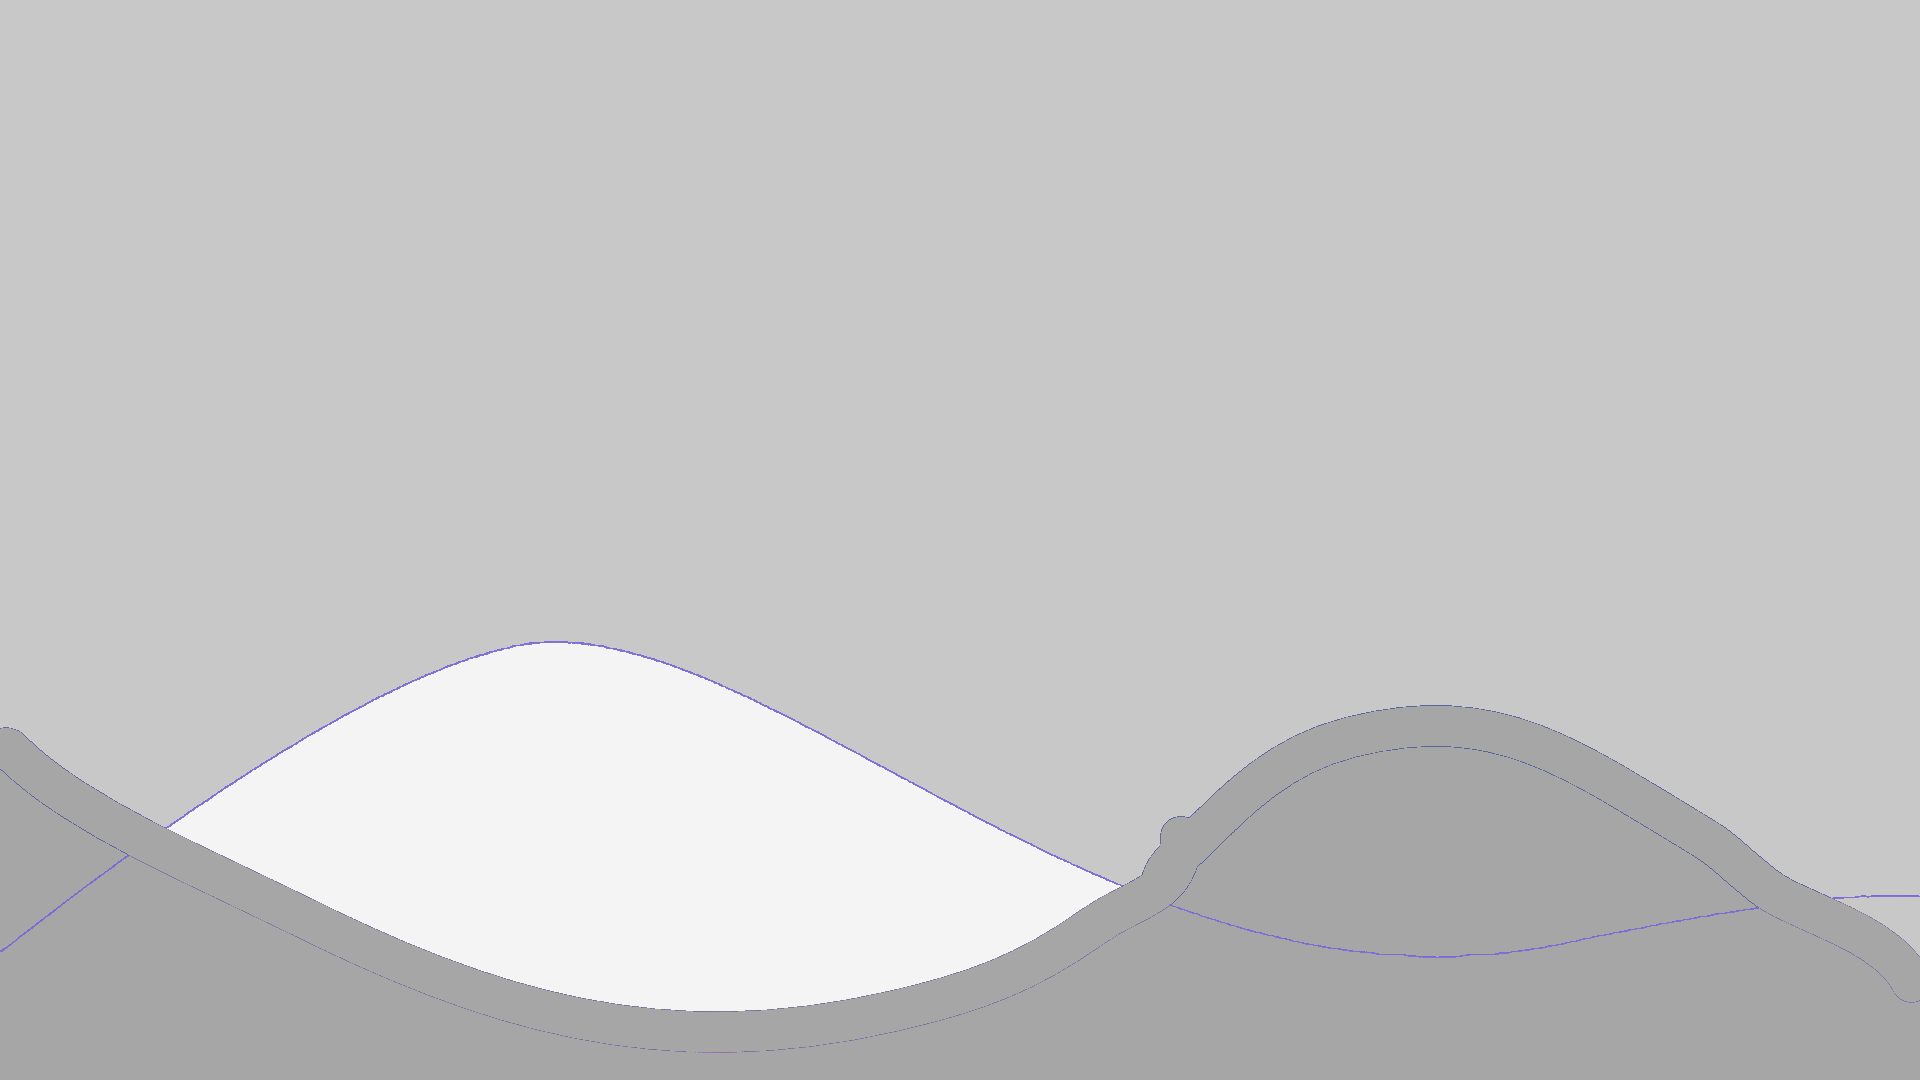
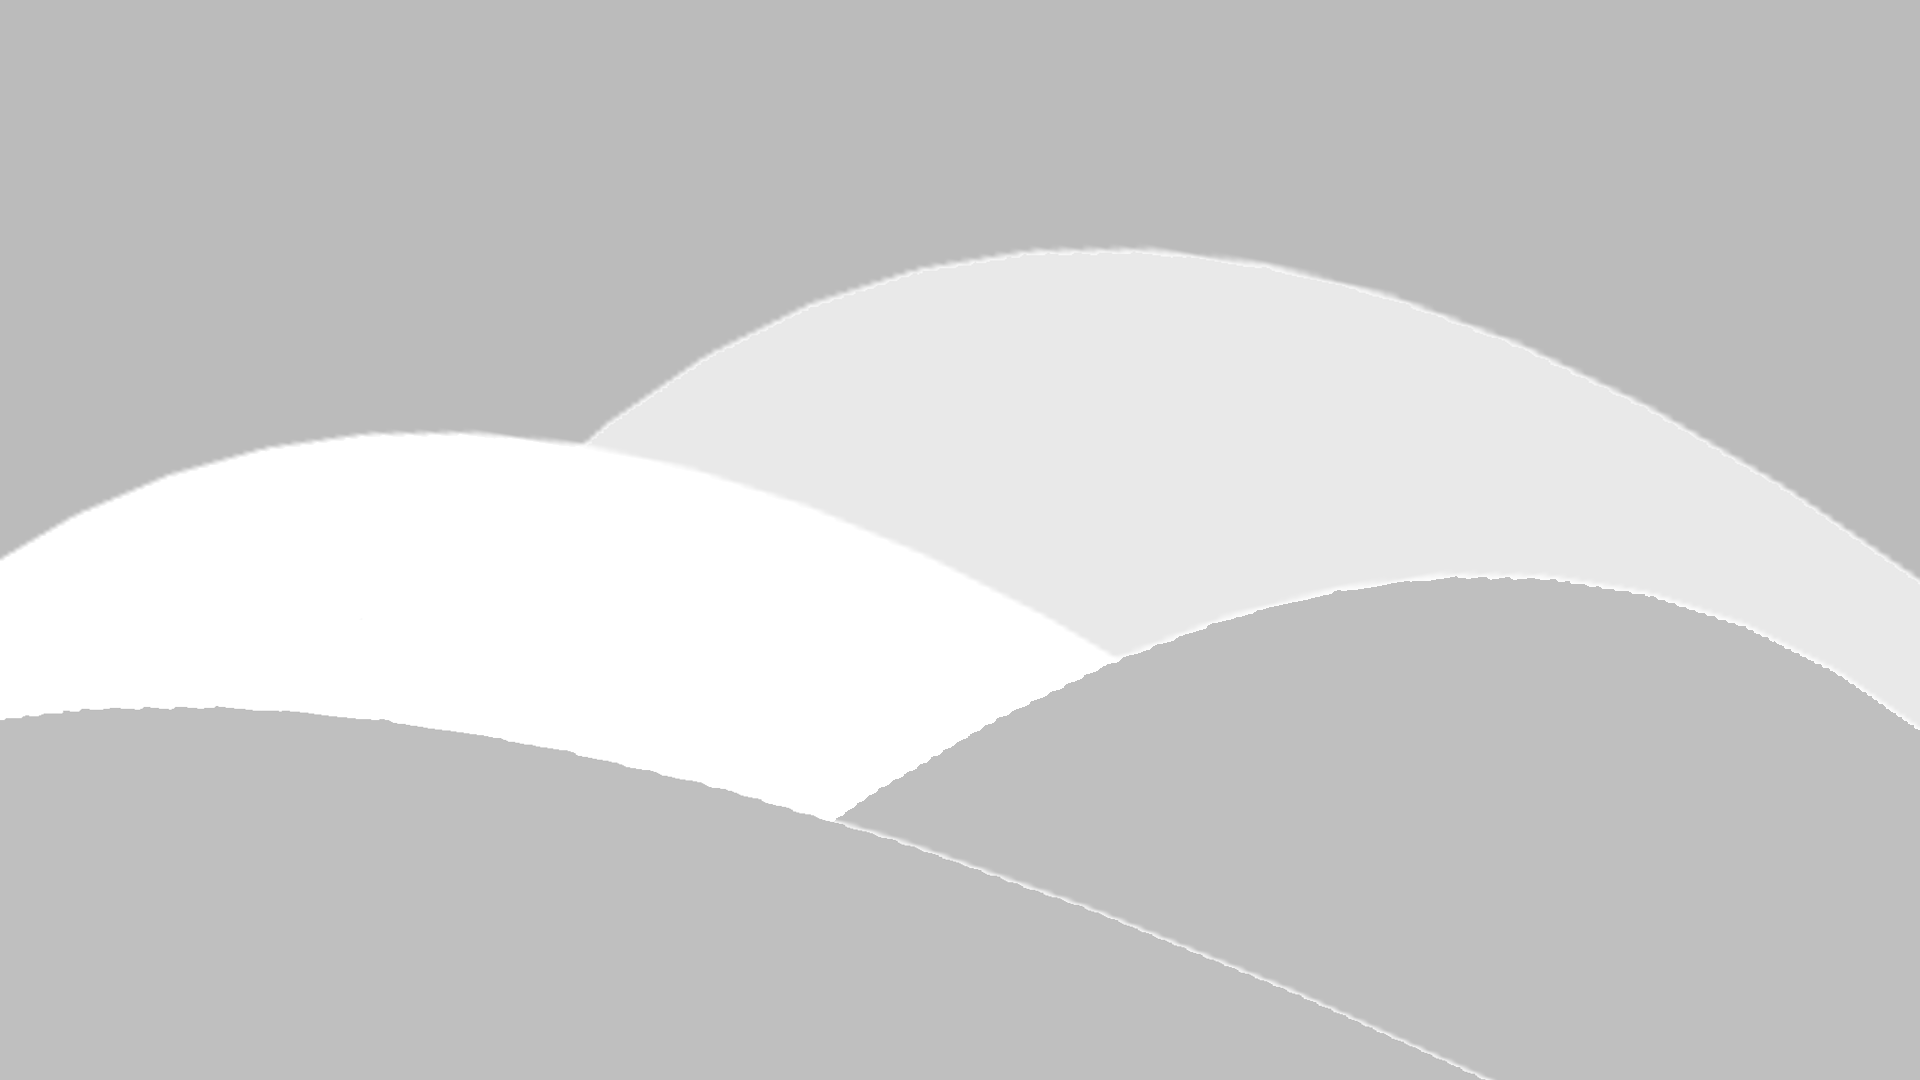
new background

diff --git a/src/otherpages/HomePage.jsx b/src/otherpages/HomePage.jsx
@@ -129,7 +129,7 @@ export function HomePage() {
 
   return (
     <div className="w-screen min-h-screen p-0 m-0 relative bg-gray-200 ">
-      <div className="w-screen h-screen overflow-hidden fixed top-0 left-0 z-0 opacity-15">
+      <div className="w-screen h-screen overflow-hidden fixed top-0 left-0 z-0 opacity-20">
         <img className="h-full w-full aspect-auto" src={backgroundImage} />
       </div>
       <Navbar currentPage={"Home"} />
